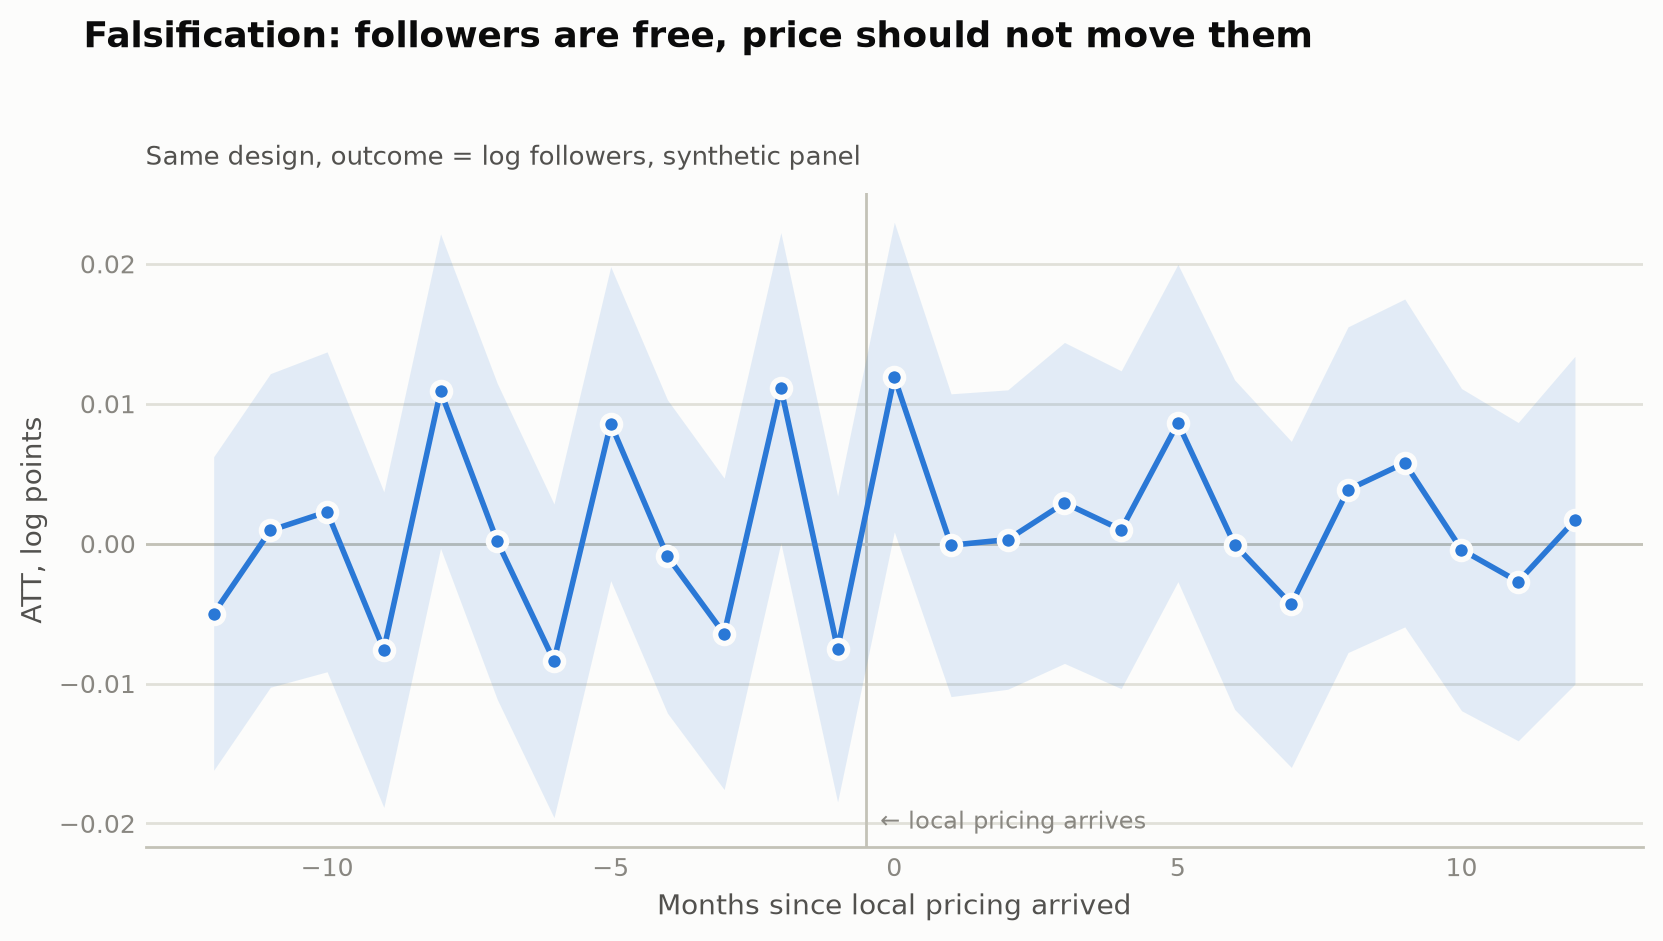
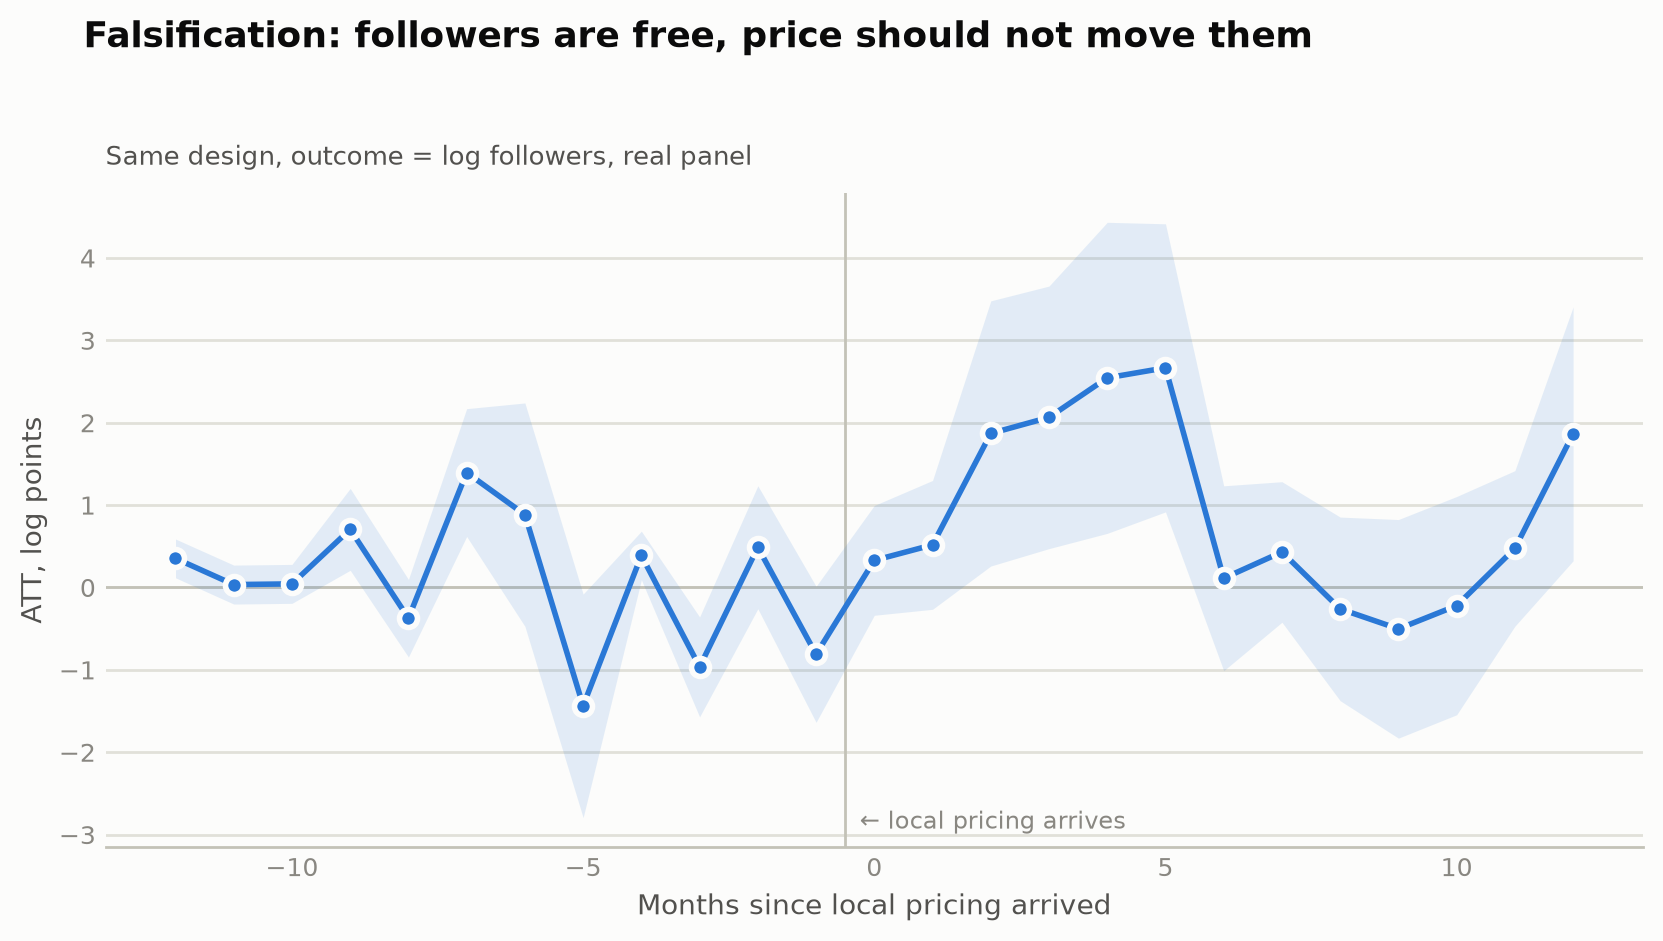
M4 pilot: real data harvested via user Chrome session; first estimates
TwitchTracker per-channel tier charts (monthly, 2020-05+) harvested through
the user's real Chrome (extension), robots-compliant, cached to
data/interim/pilot/. 96 channels attempted, 55 usable in panel after
country mapping, attrition censoring, and pre-period requirements:
TR 3, MX 2, BR 7, ES 12, AR 4 treated + 27 US/EN controls.

Findings: TwitchTracker tracking starts cluster at 2020-05 (top channels)
and 2021-11 (broad set) - mid-tier channels lack pre-periods. Aggregate CS
ATT +1.13 but Prime placebo +1.07 -> parallel trends fails at aggregate
level (2021 Spanish/BR Twitch popularity boom). Per-cohort with
log(paid/Prime) popularity-netted outcome: TR+MX +0.38(0.07),
BR +0.67(0.28), ES+AR +0.44(0.26) - signal present, not yet dose-monotone.
Elasticity step needs real per-country doses (M6); config placeholders
matched incorrectly and that number is not meaningful.

Changed region(s): [[0.0307, 0.2157, 0.9814, 0.9245], [0.0613, 0.1541, 0.5213, 0.1849], [0.368, 0.9554, 0.6747, 0.9862]]

diff --git a/src/panel/pilot_build.py b/src/panel/pilot_build.py
@@ -1,0 +1,159 @@
+"""Build the pilot channel-month panel from harvested TwitchTracker chart data.
+
+Inputs (data/interim/pilot/): pilot_dump_1.json (full-format records with
+`rows` = [month, paid, prime]) and pilot_delta.json (compact records with
+`s`=start month, `p`=paid array, `q`=prime array, optional `m`=explicit month
+codes "YYMM" when the series has gaps).
+
+Outcome definitions:
+  paid  = Tier1 + Tier2 + Tier3 + Undefined active subs (INCLUDES gift subs —
+          the tier chart does not separate them; documented threat)
+  prime = Prime subs: free via Amazon Prime, price-insensitive — the
+          within-channel placebo series (fills the schema's `followers` slot
+          for the pilot; real follower series arrive with SullyGnome at M5).
+
+Attrition rule: months after a channel's paid count collapses below
+MIN_ACTIVE (channel left Twitch / stopped streaming) are censored, from the
+first sub-threshold month onward. Zeros in log space are not "no demand",
+they are exit.
+
+Cohort assignment: country (curated map, provisional for es-language) ->
+treat_month_g from the price table (>=15-treated-days rule).
+"""
+
+from __future__ import annotations
+
+import argparse
+import json
+from pathlib import Path
+
+import numpy as np
+import pandas as pd
+
+from src.panel.months import to_mindex
+from src.panel.prices import load_price_table
+from src.panel.schema import validate_panel
+
+PILOT_DIR = Path("data/interim/pilot")
+COUNTRY_MAP = Path("data/reference/channel_country_map.csv")
+MIN_ACTIVE = 10  # paid subs; below this a big channel has effectively exited
+PANEL_START, PANEL_END = "2020-01", "2022-12"
+
+COUNTRY_LANGUAGE = {
+    "TR": "tr", "MX": "es", "BR": "pt", "ES": "es", "AR": "es", "US": "en",
+}  # fmt: skip
+
+
+def _mm(code: str) -> str:
+    """'2103' -> '2021-03'."""
+    return f"20{code[:2]}-{code[2:]}"
+
+
+def load_records() -> dict[str, list[tuple[str, float | None, float | None]]]:
+    """channel -> [(month, paid, prime), ...] from both dump formats."""
+    out: dict[str, list[tuple[str, float | None, float | None]]] = {}
+    d1 = json.loads((PILOT_DIR / "pilot_dump_1.json").read_text())
+    for ch, rec in d1.items():
+        if isinstance(rec, dict) and rec.get("rows"):
+            out[ch] = [(m, p, q) for m, p, q in rec["rows"]]
+    delta = json.loads((PILOT_DIR / "pilot_delta.json").read_text())
+    for ch, rec in delta.items():
+        if not isinstance(rec, dict):
+            continue
+        n = len(rec["p"])
+        if "m" in rec:
+            months = [_mm(c) for c in rec["m"]]
+        else:
+            start = to_mindex(rec["s"])
+            from src.panel.months import from_mindex
+
+            months = [from_mindex(start + i) for i in range(n)]
+        out[ch] = list(zip(months, rec["p"], rec["q"], strict=True))
+    return out
+
+
+def build_panel() -> pd.DataFrame:
+    records = load_records()
+    cmap = pd.read_csv(COUNTRY_MAP)
+    country = dict(zip(cmap.channel, cmap.country, strict=True))
+    confidence = dict(zip(cmap.channel, cmap.confidence, strict=True))
+    prices = load_price_table()
+    g_by_country = dict(zip(prices.country_code, prices.treat_mindex_g, strict=True))
+    # Argentina: treated with LatAm on 2021-07-27 (g=2021-08); rollout-era ARS
+    # price not yet sourced -> in cohorts but excluded from the dose regression.
+    g_by_country.setdefault("AR", float(to_mindex("2021-08")))
+
+    # channels not in the map are assumed English/US-audience controls if they
+    # came from the English roster; the roster file is the source of truth
+    roster = pd.read_csv("data/interim/pilot_roster_v2.csv")
+    roster_lang = dict(zip(roster.channel, roster.language_expected, strict=True))
+    for extra in ("cristinini", "alkapone", "coringa", "forsen", "cohhcarnage"):
+        roster_lang.setdefault(extra, {"coringa": "pt"}.get(extra, "en" if extra in ("forsen", "cohhcarnage") else "es"))
+
+    rows = []
+    lo, hi = to_mindex(PANEL_START), to_mindex(PANEL_END)
+    for ch, series in records.items():
+        ctry = country.get(ch)
+        conf = confidence.get(ch, "")
+        lang = roster_lang.get(ch, "?")
+        if ctry is None:
+            if lang == "en":
+                ctry = "US"  # US-audience proxy; contamination documented
+            else:
+                continue  # non-EN channel with unknown country: excluded
+        elif conf == "low":
+            continue  # ambiguous country: excluded pending M5 verification
+        g = g_by_country.get(ctry)
+        g = None if pd.isna(g) else int(g)
+
+        # attrition censoring: cut at first collapse
+        series = sorted(series, key=lambda r: r[0])
+        kept = []
+        for m, paid, prime in series:
+            if paid is not None and paid < MIN_ACTIVE:
+                break
+            kept.append((m, paid, prime))
+        for m, paid, prime in kept:
+            idx = to_mindex(m)
+            if not lo <= idx <= hi or paid is None:
+                continue
+            rows.append(
+                {
+                    "channel_id": ch,
+                    "month": m,
+                    "mindex": idx,
+                    "cohort_mindex": float(g) if g is not None else np.nan,
+                    "cohort_name": f"g{g}" if g is not None else "never",
+                    "country": ctry,
+                    "language": COUNTRY_LANGUAGE.get(ctry, lang),
+                    "subs": float(paid),
+                    "log_subs": float(np.log(paid)),
+                    "followers": float(prime) if prime else np.nan,
+                    "log_followers": float(np.log(prime)) if prime else np.nan,
+                    "cat_share_games": 0.5,  # placeholder covariate until M5
+                }
+            )
+    df = pd.DataFrame(rows)
+
+    # pre-treatment size covariate: mean log paid before the earliest cohort month
+    first_g = int(min(c for c in df["cohort_mindex"].dropna()))
+    pre = df[df["mindex"] < first_g].groupby("channel_id")["log_subs"].mean()
+    df["pre_size"] = df["channel_id"].map(pre)
+    df = df[df["pre_size"].notna()]  # channels with zero pre-first-cohort data drop out
+    return validate_panel(df.reset_index(drop=True))
+
+
+def main() -> None:
+    parser = argparse.ArgumentParser(description=__doc__)
+    parser.add_argument("--out", default="data/processed/pilot_panel.parquet")
+    args = parser.parse_args()
+    df = build_panel()
+    out = Path(args.out)
+    out.parent.mkdir(parents=True, exist_ok=True)
+    df.to_parquet(out, index=False)
+    print(f"wrote {out}: {len(df):,} rows, {df['channel_id'].nunique()} channels")
+    print(df.groupby(["cohort_name", "country"])["channel_id"].nunique().to_string())
+
+
+if __name__ == "__main__":
+    main()

diff --git a/src/estimate/cs.py b/src/estimate/cs.py
@@ -53,6 +53,8 @@ def run_cs(
     control_group = control_group or est["control_group"]
     anticipation = est["anticipation"] if anticipation is None else anticipation
     covariates = est.get("covariates", []) if covariates is None else covariates
+    # a zero-variance covariate makes the DR design singular (e.g. pilot placeholders)
+    covariates = [c for c in covariates if panel[c].nunique(dropna=True) > 1]
 
     cols = ["channel_id", "mindex", "cohort_mindex", outcome, *covariates]
     data = panel[cols].set_index(["channel_id", "mindex"]).sort_index()
